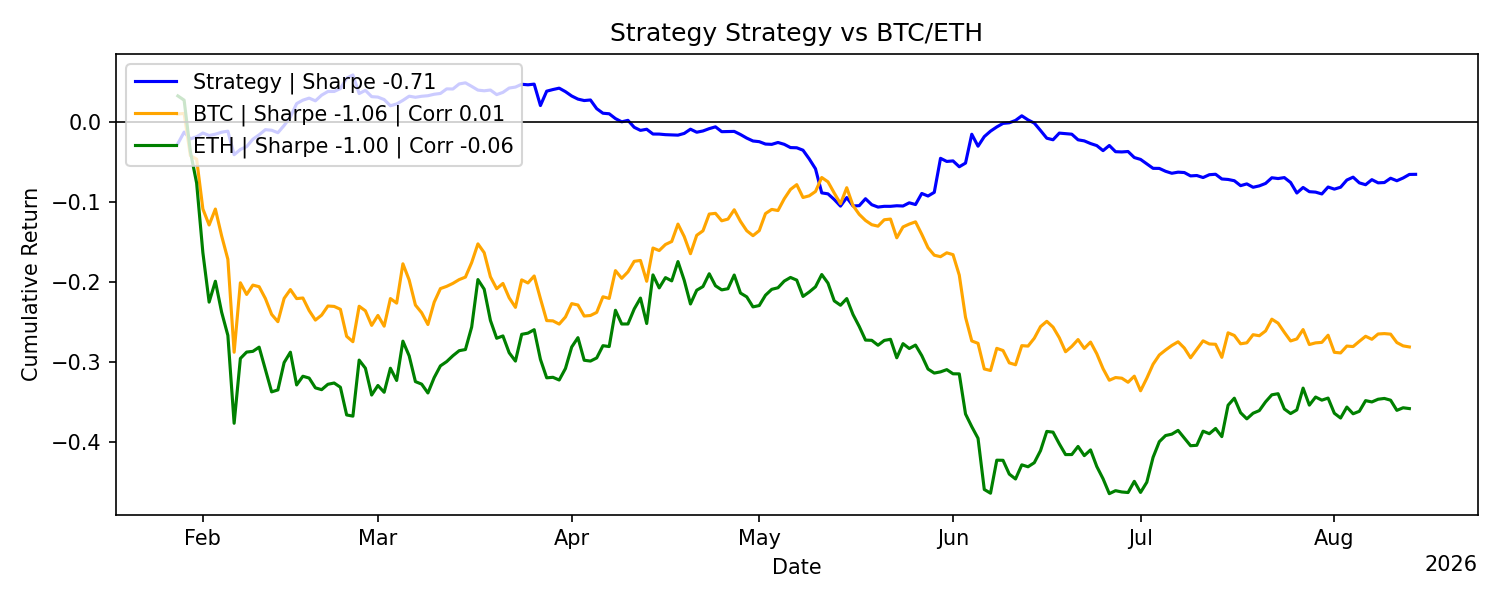
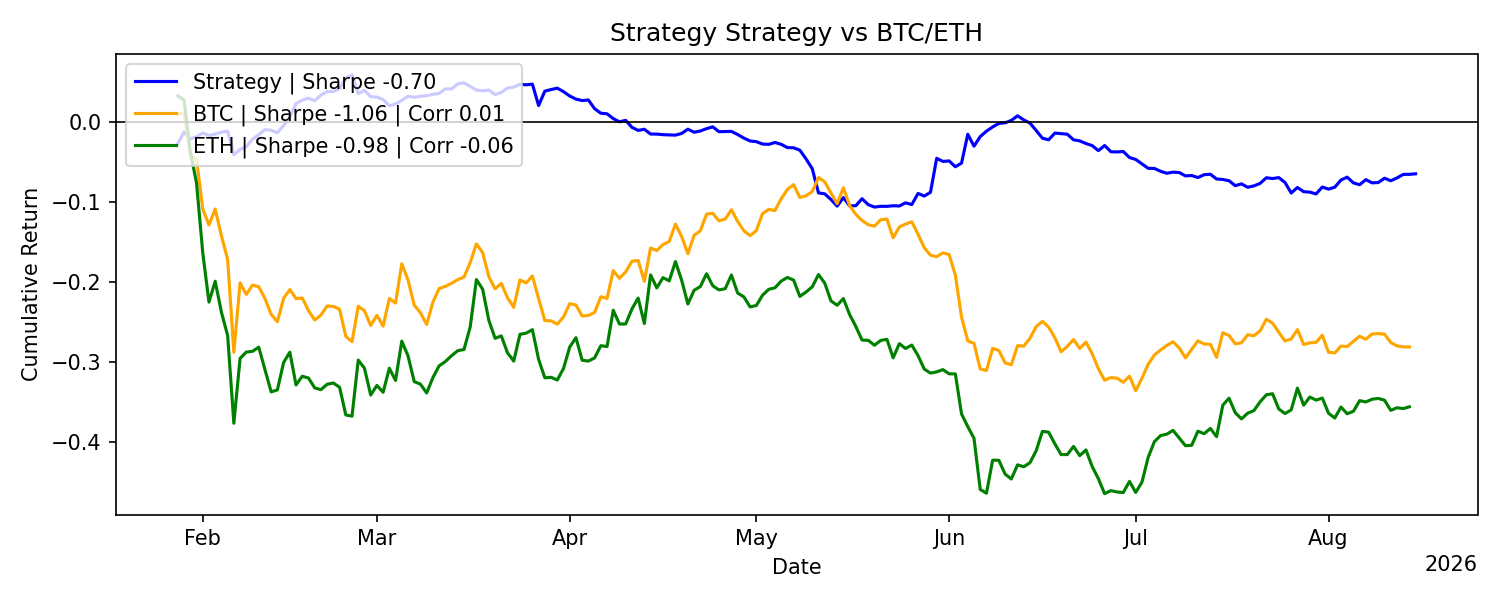
Update reports: 2026-08-15 00:02:43 UTC

diff --git a/README.md b/README.md
@@ -24,26 +24,26 @@ All results are live and reported net of transaction costs and slippage.
 <!-- METRICS_START -->
 | metric                       |        values |
 |:-----------------------------|--------------:|
-| Number of Observations       | 199           |
-| Mean Daily Return            |  -0.000305699 |
-| Daily Volatility             |   0.00826648  |
-| Mean Annualized Return       |  -0.11158     |
-| Annualized Volatility        |   0.157931    |
+| Number of Observations       | 200           |
+| Mean Daily Return            |  -0.000300694 |
+| Daily Volatility             |   0.00824599  |
+| Mean Annualized Return       |  -0.109753    |
+| Annualized Volatility        |   0.157539    |
 | Maximum Drawdown             |  -0.156146    |
-| Max Drawdown Duration (Days) | 170           |
-| Sharpe                       |  -0.706512    |
-| Sortino                      |  -0.974908    |
-| Calmar                       |  -0.714588    |
-| CAGR                         |  -0.116597    |
-| Skewness                     |   0.65251     |
-| Excess Kurtosis              |   8.82396     |
-| Win Rate                     |   0.477387    |
-| Profit Factor                |   0.890752    |
-| VaR 1%                       |  -0.0269322   |
+| Max Drawdown Duration (Days) | 171           |
+| Sharpe                       |  -0.696672    |
+| Sortino                      |  -0.958947    |
+| Calmar                       |  -0.702889    |
+| CAGR                         |  -0.114927    |
+| Skewness                     |   0.65222     |
+| Excess Kurtosis              |   8.87896     |
+| Win Rate                     |   0.48        |
+| Profit Factor                |   0.892       |
+| VaR 1%                       |  -0.0269025   |
 | CVaR 1%                      |  -0.030925    |
-| VaR 5%                       |  -0.0106613   |
+| VaR 5%                       |  -0.0106241   |
 | CVaR 5%                      |  -0.0201626   |
-| Correlation with BTC         |   0.00768824  |
+| Correlation with BTC         |   0.00770352  |
 <!-- METRICS_END -->
 
 ## Sharpe Statistics
@@ -55,14 +55,14 @@ All results are live and reported net of transaction costs and slippage.
 | metric                     |   values |
 |:---------------------------|---------:|
 | alpha                      |   0.05   |
-| t-statistic                |  -0.5217 |
-| p-value                    |   0.6025 |
-| Daily Sharpe Ratio         |  -0.037  |
-| Annualized Sharpe Ratio    |  -0.7065 |
-| Sharpe Standard Error      |   1.3765 |
-| C.I. Lower Bound           |  -3.4044 |
-| C.I. Upper Bound           |   1.9914 |
-| Bootstrap C.I. Lower Bound |  -3.6797 |
-| Bootstrap C.I. Upper Bound |   2.5996 |
+| t-statistic                |  -0.5157 |
+| p-value                    |   0.6066 |
+| Daily Sharpe Ratio         |  -0.0365 |
+| Annualized Sharpe Ratio    |  -0.6967 |
+| Sharpe Standard Error      |   1.3727 |
+| C.I. Lower Bound           |  -3.3872 |
+| C.I. Upper Bound           |   1.9939 |
+| Bootstrap C.I. Lower Bound |  -3.6809 |
+| Bootstrap C.I. Upper Bound |   2.5708 |
 <!-- SHARPE_END -->
 
